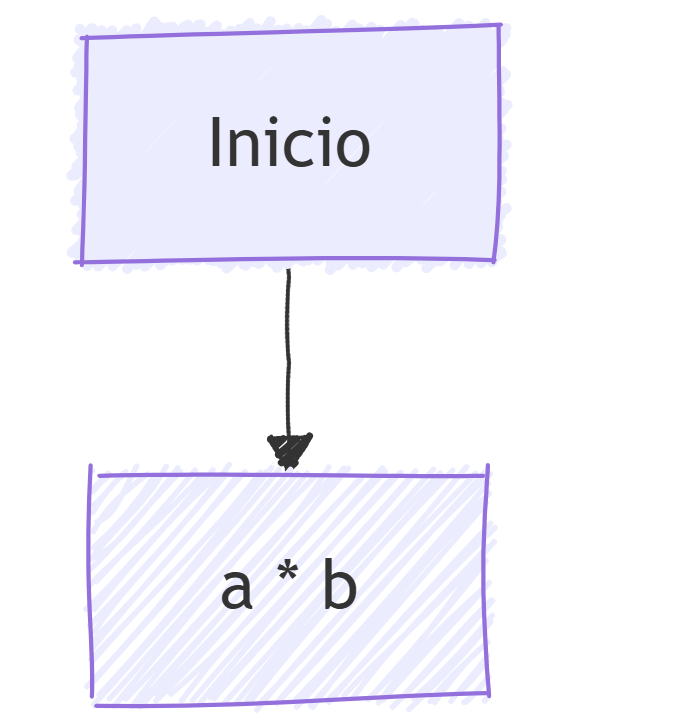
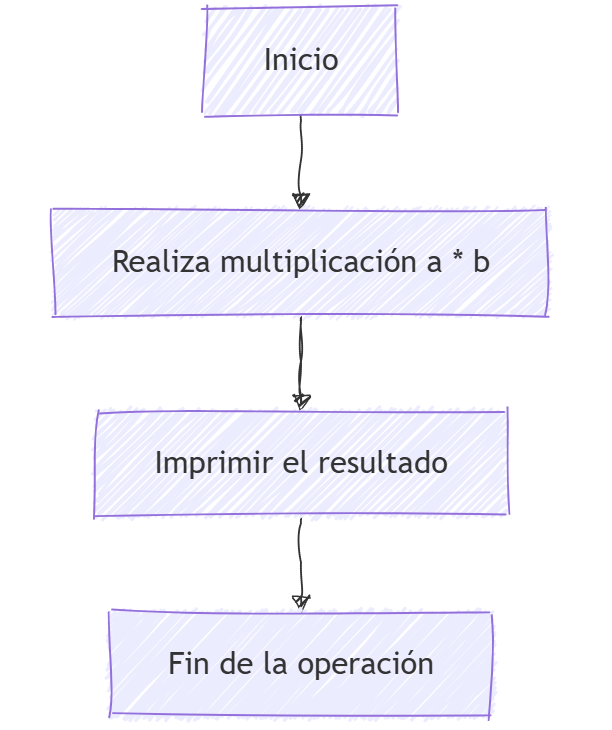
ok

Changed region(s): [[0.0621, 0.0, 0.9003, 0.9986], [0.2484, 0.2724, 0.3725, 0.3026]]

diff --git a/README.md b/README.md
@@ -47,13 +47,20 @@ def multiplicacion(a, b):
 ```
 
 ### **Descripción del flujo de control**  
-1. **Inicio (Nodo 1):** La función realiza la operación `a * b` y retorna el resultado sin ninguna bifurcación.  
+- **A[Inicio]**: Este es el punto de inicio de la función.
+- **B[Realizar multiplicación a * b]**: En este paso, la función realiza la multiplicación entre los dos parámetros `a` y `b`.
+- **C[Imprimir el resultado]**: Después de la multiplicación, el resultado se imprime en la salida.
+- **D[Fin de la operación]**: Finalmente, la operación termina.
 
 ### **Diagrama del Grafo de Flujo**  
 ```
-    (1) [Inicio]
-        |
-      a * b
+    (A) [Inicio]
+         |
+   (B) a * b
+         |
+   (C) impr result
+         |
+   (D) Fin de operacion       
 ```
 ![](imagenes/diagrama_grafo_multiplicacion.png)
 
